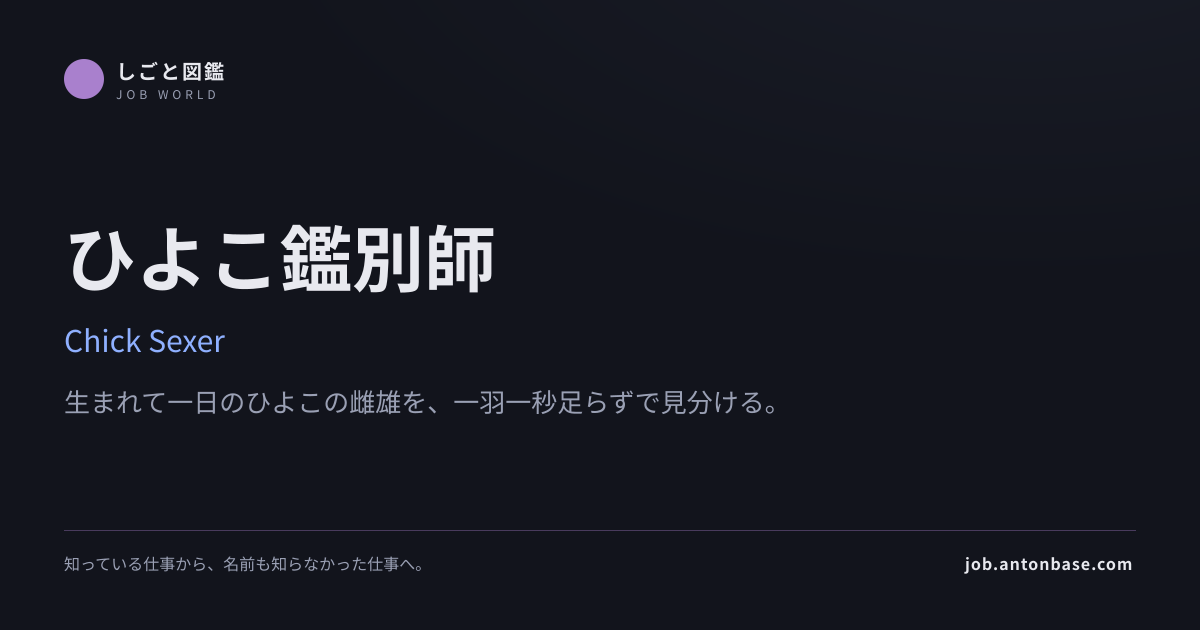
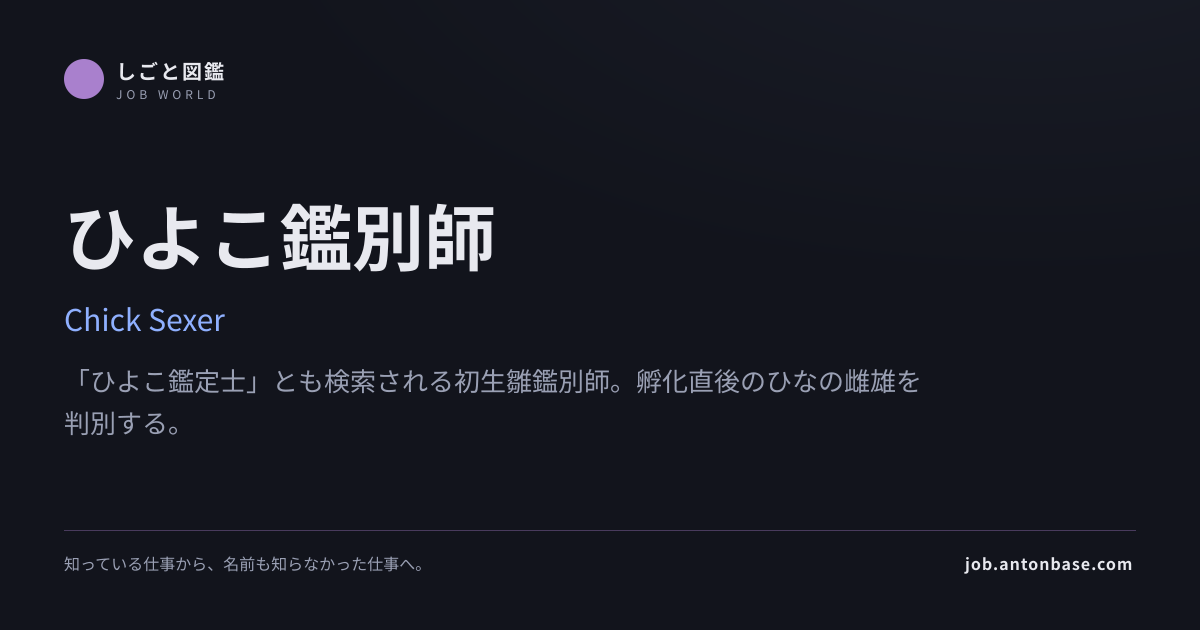
Fix five audited occupation content issues (#7)
* Correct kumihimo and ceramicist occupation guidance

* Clarify chick sexer and beekeeper guidance

* Clarify chocolatier work and career routes

* Include chick-sexer search alias in metadata

* Fit occupation copy to data constraints

* Fit chocolatier summary to data constraint

* Sync generated data timestamp

* Use CI-safe verification date

* Use CI-safe verification date

* Use CI-safe verification date

* Temporarily expose generated OGP artifact

* Temporarily sync generated OGP from CI

* Sync generated OGP images

* Restore normal CI workflow

---------

Changed region(s): [[0.0308, 0.3016, 0.7708, 0.6937]]

diff --git a/src/app/jobs/[slug]/page.tsx b/src/app/jobs/[slug]/page.tsx
@@ -30,13 +30,15 @@ export async function generateMetadata({
   const { slug } = await params;
   const job = getJobBySlug(slug);
   if (!job) return {};
+  const commonSearchAlias = job.aliasesJa.find((alias) => alias === "ひよこ鑑定士");
+  const seoName = commonSearchAlias ? `${job.nameJa}（${commonSearchAlias}）` : job.nameJa;
   return {
-    title: `${job.nameJa}とは｜仕事内容・なり方ガイド`,
+    title: `${seoName}とは｜仕事内容・なり方ガイド`,
     description: `${job.summaryJa} ${job.surpriseJa}`.slice(0, 120),
     alternates: { canonical: `/jobs/${job.slug}` },
     openGraph: {
       type: "article",
-      title: `${job.nameJa}とは｜仕事内容・なり方ガイド`,
+      title: `${seoName}とは｜仕事内容・なり方ガイド`,
       description: job.summaryJa,
       images: [
         { url: `/og/${job.slug}.png`, width: 1200, height: 630, alt: job.nameJa },
@@ -46,7 +48,7 @@ export async function generateMetadata({
       card: "summary_large_image",
       site: "@shikaku_catalog",
       creator: "@shikaku_catalog",
-      title: `${job.nameJa}とは｜仕事内容・なり方ガイド`,
+      title: `${seoName}とは｜仕事内容・なり方ガイド`,
       description: job.summaryJa,
       images: [`/og/${job.slug}.png`],
     },
